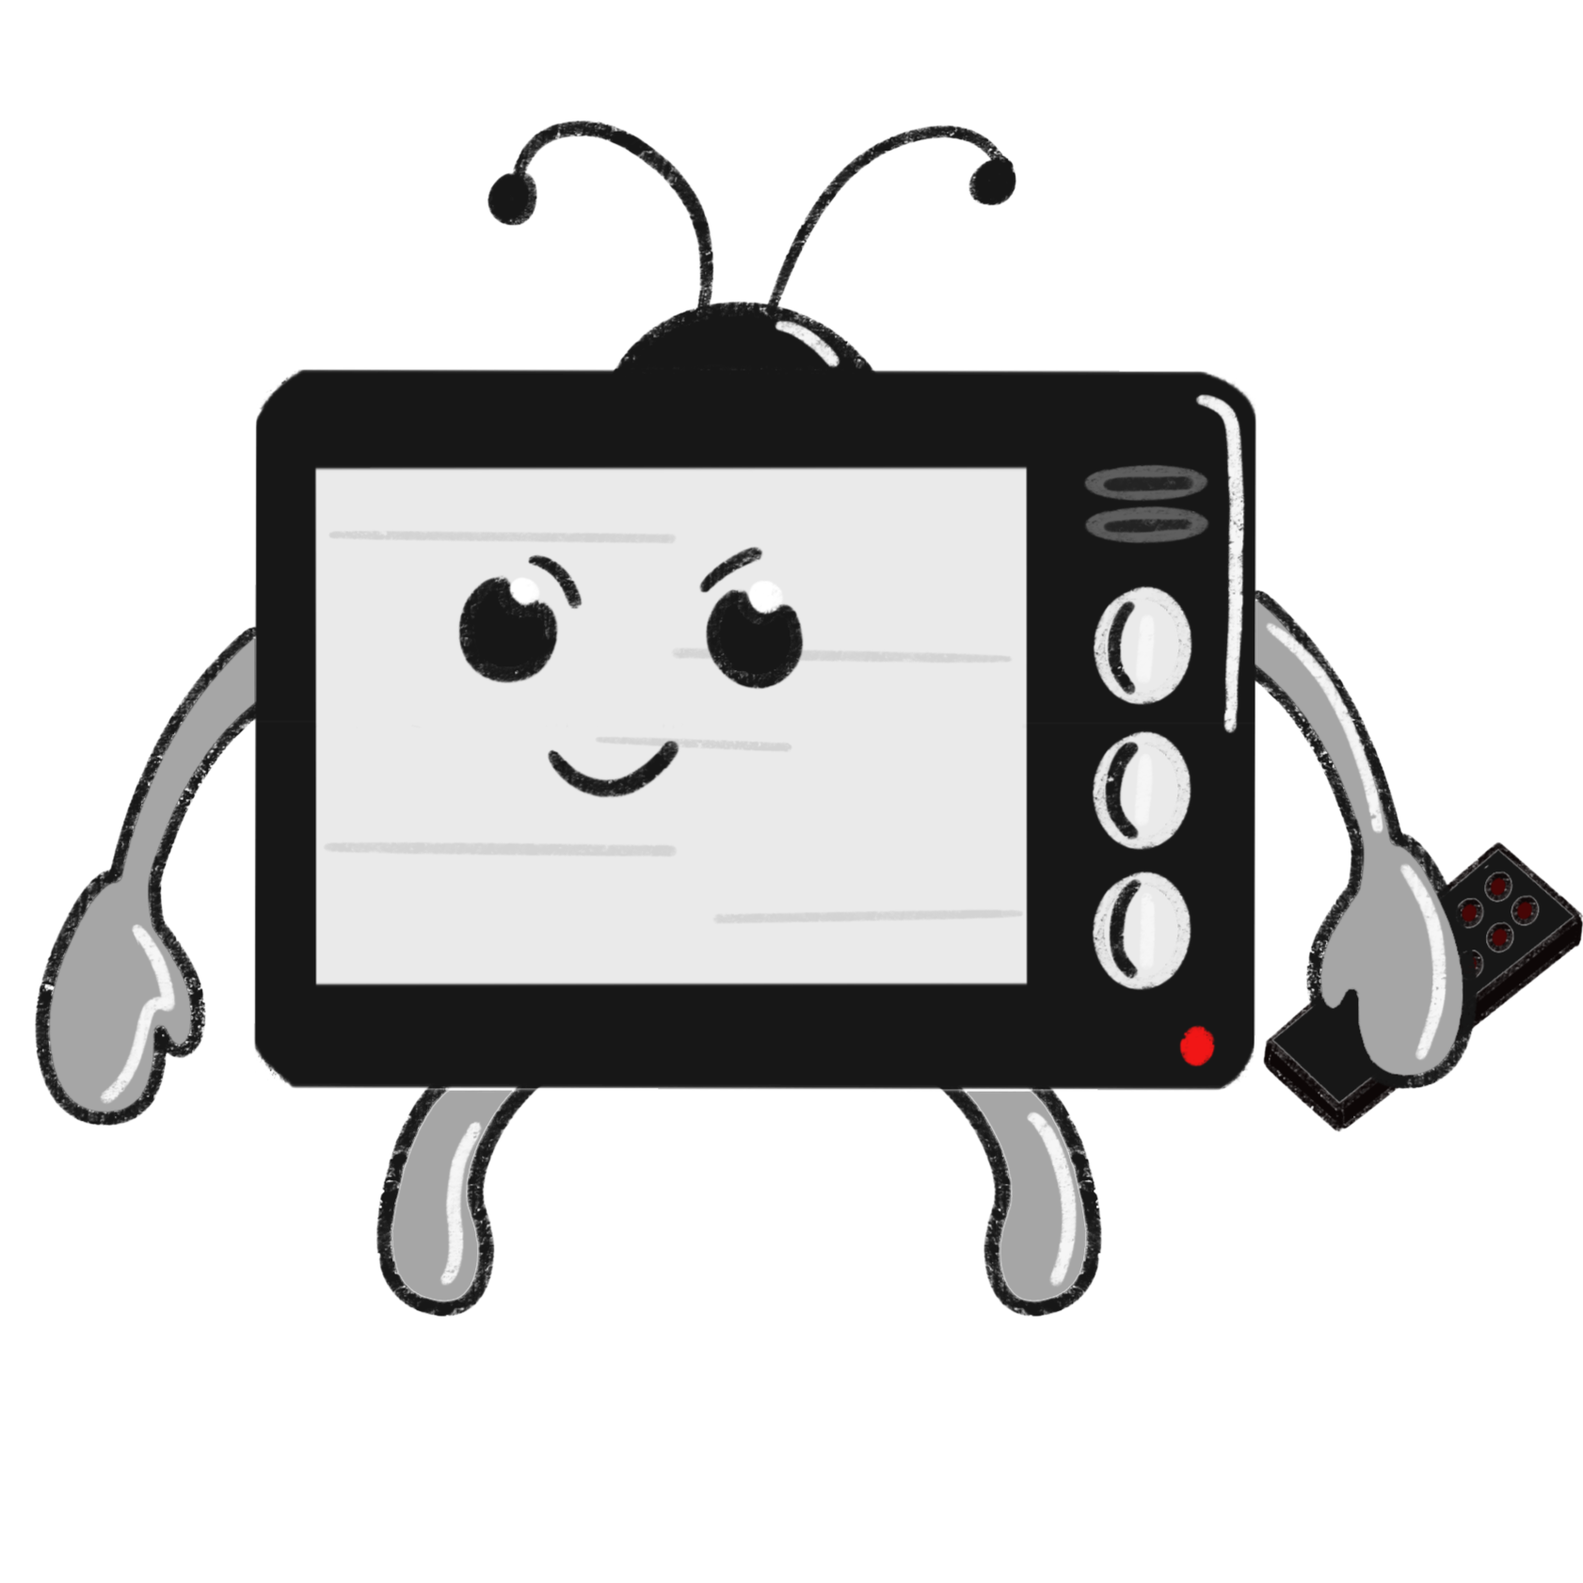
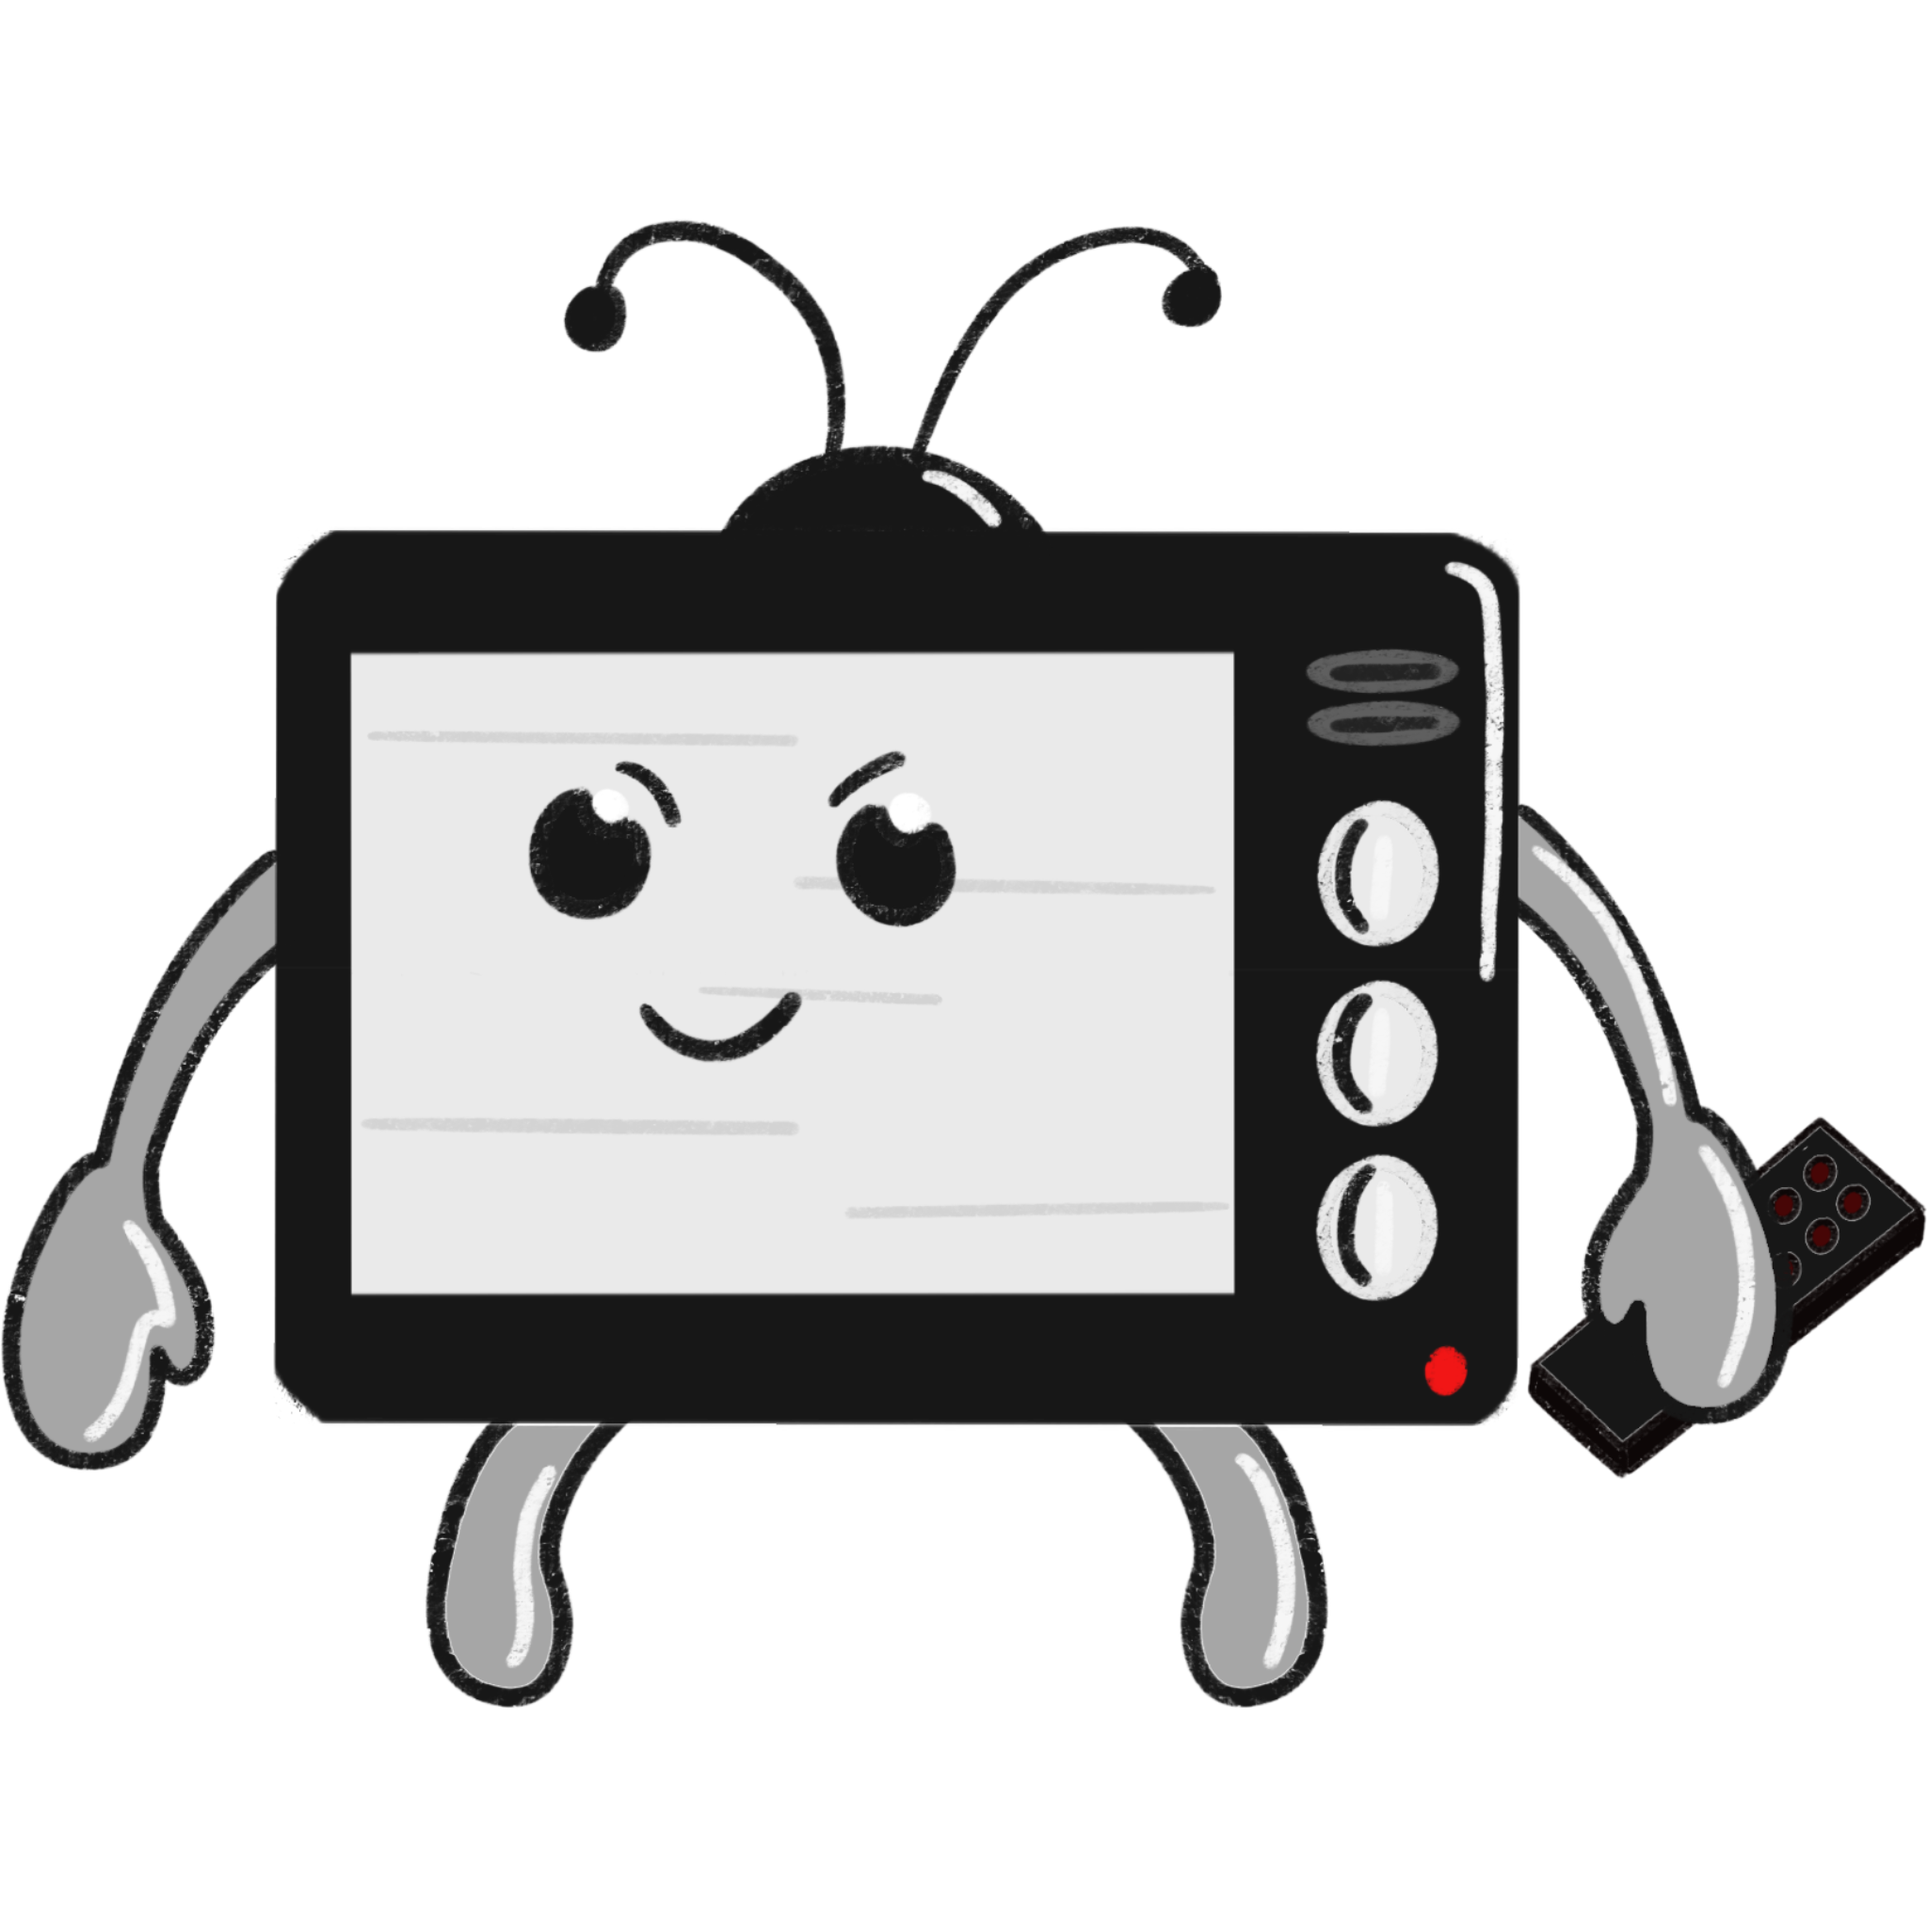
Add player deplacement animation

Changed region(s): [[0.0, 0.0618, 1.0, 0.8966], [0.2782, 0.0618, 0.4019, 0.1855]]

diff --git a/Player.cs b/Player.cs
@@ -1,5 +1,6 @@
 #nullable enable
 using System;
+using System.Collections;
 using System.Runtime.CompilerServices;
 using Microsoft.Xna.Framework;
 using Microsoft.Xna.Framework.Graphics;
@@ -14,6 +15,11 @@ public class Player : Entity
     private int xpObjective = 50;
     private int currentXp;
     private int maxHp;
+    
+    private int frameCounter = 0;
+    private double lastTimeFrame = 0;
+    private readonly double FRAME_INTERVAL = 100;
+    
     private Weapon weapon { get; set; }
 
     private float MAX_SPEED
@@ -27,7 +33,7 @@ public class Player : Entity
     public ProgressBar XpBar;
 
     public Player(Rectangle hitbox,
-        Sprite sprite,
+        ArrayList sprite,
         Vector2 pos,
         Vector2 speed,
         int hp,
@@ -125,13 +131,14 @@ public class Player : Entity
         if (Position.Y > World.WorldHeight - halfSpriteSize) Position.Y = World.WorldHeight - halfSpriteSize;
 
         //décélération avec le temps
-        if (Speed.X > 0) Speed.X -= 0.1f;
-        if (Speed.X < 0) Speed.X += 0.1f;
-        if (Speed.Y > 0) Speed.Y -= 0.1f;
-        if (Speed.Y < 0) Speed.Y += 0.1f;
+        if (Speed.X > 0) Speed.X -= 0.5f;
+        if (Speed.X < 0) Speed.X += 0.5f;
+        if (Speed.Y > 0) Speed.Y -= 0.5f;
+        if (Speed.Y < 0) Speed.Y += 0.5f;
 
         //réalignement de la hitbox sur le sprite
         setHitboxPosition();
+        GestionAnimation(gameTime);
 
         //Fin déplacement
 
@@ -143,6 +150,34 @@ public class Player : Entity
                 World.AddEntity(weapon.fire(time));
         }
         //Fin attaque
+    }
+
+    protected override void GestionAnimation(GameTime gameTime)
+    {
+        if (Math.Abs(Speed.X) < 0.1f && Math.Abs(Speed.Y) < 0.1f)
+        {
+            Sprite = (Sprite) spriteSheets[0];
+        }
+        else if (gameTime.TotalGameTime.TotalMilliseconds > lastTimeFrame + FRAME_INTERVAL)
+        {
+            lastTimeFrame = gameTime.TotalGameTime.TotalMilliseconds;
+            frameCounter = ((frameCounter + 1) % spriteSheets.Count);
+            bool flip = Sprite.Flipped;
+            Sprite = (Sprite) spriteSheets[frameCounter];
+            //On met à jour la position du Sprite car l'entité a possiblement bougé entre temps
+            Sprite._position = this.Position;
+            Sprite.Flipped = flip;
+            if (Speed.X > 0.1f)
+            {
+                Sprite.Flipped = true;
+            }
+            else
+            {
+                Sprite.Flipped = false;
+            }
+        }
+        
+        //TODO retourner sprite quand cours vers la gauche
     }
 
     private class Weapon

diff --git a/World.cs b/World.cs
@@ -8,27 +8,27 @@ namespace Projet_Survivor;
 
 public class World : Game
 {
+
+    private GraphicsDeviceManager _graphics;
+    private SpriteBatch _spriteBatch;
+
+    public static int WorldWidth;
+    public static int WorldHeight;
+
     //liste des entités présentes à un instant t
     //Le joueur est toujours l'entité à l'indice 0
     private static ArrayList _entities = new ArrayList();
     private static ArrayList _buttons = new ArrayList();
 
-    private GraphicsDeviceManager _graphics;
-
-    public static int WorldWidth;
-    public static int WorldHeight;
-    private SpriteBatch _spriteBatch;
-
-    public Sprite _playerSprite; // instance de Sprite
-    public Sprite _enemySprite; // instance de Sprite
     public static Texture2D xpBarBackground;
     public static Texture2D xpBarForeground;
     public static Texture2D defaultProjectileTexture;
 
     private ArrayList _enemyTextureList = new ArrayList();
+    private ArrayList _playerTextureList = new ArrayList();
 
-    private Texture2D backgroundTexture;
     public static Player player;
+    private Texture2D backgroundTexture;
     private Random random;
     private static bool isPaused;
 
@@ -113,7 +113,12 @@ public class World : Game
         _spriteBatch = new SpriteBatch(GraphicsDevice);
         Texture2D playerTexture = Content.Load<Texture2D>("playerStill");
         backgroundTexture = Content.Load<Texture2D>("background");
-        _playerSprite = new Sprite(playerTexture, new Vector2(150, 150), 100);
+        
+        _playerTextureList.Add(Content.Load<Texture2D>("playerStill"));
+        for (int i = 0; i < 2; i++)
+        {
+            _playerTextureList.Add(Content.Load<Texture2D>("playerMoving" + i.ToString()));
+        }
         
         for (int i = 0; i < 8; i++)
         {
@@ -146,7 +151,7 @@ public class World : Game
         attackSpeedUpgradeButton.addAction(() => player.increaseAttackSpeed());
         _buttons.Add(attackSpeedUpgradeButton);
 
-        player = new Player(new Rectangle(WorldWidth / 2, WorldHeight / 2, 60, 50), _playerSprite,
+        player = new Player(new Rectangle(WorldWidth / 2, WorldHeight / 2, 60, 50), constructSpriteSheet(_playerTextureList),
             new Vector2(WorldWidth / 2, WorldHeight / 2), new Vector2(),
             5, 1.0);
         _entities.Add(player);

diff --git a/Entity.cs b/Entity.cs
@@ -14,12 +14,9 @@ public abstract class Entity
     public Vector2 Position;
     protected int _hp;
     protected Vector2 Speed;
-    private ArrayList spriteSheets = new ArrayList(); 
+    protected ArrayList spriteSheets = new ArrayList(); 
     private double lastTimeHit = 0;
     private static readonly double HIT_COUNTDOWN = 10;
-    private int frameCounter = 0;
-    private double lastTimeFrame = 0;
-    private readonly double FRAME_INTERVAL = 250;
 
     public Entity(Rectangle hitbox, Sprite sprite, Vector2 position, Vector2 speed, int hp)
     {
@@ -58,27 +55,7 @@ public abstract class Entity
         }
     }
 
-    protected void GestionAnimation(GameTime gameTime)
-    {
-        if (this.Position.X > World.player.Position.X - 10)
-        {
-            Sprite.Flipped = true;
-        }
-        else
-        {
-            Sprite.Flipped = false;
-        }
-        if (gameTime.TotalGameTime.TotalMilliseconds > lastTimeFrame + FRAME_INTERVAL)
-        {
-            lastTimeFrame = gameTime.TotalGameTime.TotalMilliseconds;
-            frameCounter = (frameCounter + 1) % spriteSheets.Count;
-            bool flip = Sprite.Flipped;
-            Sprite = (Sprite) spriteSheets[frameCounter];
-            //On met à jour la position du Sprite car l'entité a possiblement bougé entre temps
-            Sprite._position = this.Position;
-            Sprite.Flipped = flip;
-        }
-    }
+    protected abstract void GestionAnimation(GameTime gameTime);
 
     private void SetHp(int hp)
     {

diff --git a/Enemy.cs b/Enemy.cs
@@ -12,6 +12,10 @@ public class Enemy : Entity
     private int xpValue { get; init; }
     private Behavior behavior;
     private readonly Player player = (Player)World.GetEntities()[0];
+    
+    private int frameCounter = 0;
+    private double lastTimeFrame = 0;
+    private readonly double FRAME_INTERVAL = 250;
 
     public Enemy(Rectangle hitbox,
         ArrayList sprite,
@@ -73,6 +77,29 @@ public class Enemy : Entity
         if (_hp <= 0)
         {
             player.gainXp(xpValue);
+            World.GetEntities().Remove(this);
+        }
+    }
+
+    protected override void GestionAnimation(GameTime gameTime)
+    {
+        if (this.Position.X > World.player.Position.X - 10)
+        {
+            Sprite.Flipped = true;
+        }
+        else
+        {
+            Sprite.Flipped = false;
+        }
+        if (gameTime.TotalGameTime.TotalMilliseconds > lastTimeFrame + FRAME_INTERVAL)
+        {
+            lastTimeFrame = gameTime.TotalGameTime.TotalMilliseconds;
+            frameCounter = (frameCounter + 1) % spriteSheets.Count;
+            bool flip = Sprite.Flipped;
+            Sprite = (Sprite) spriteSheets[frameCounter];
+            //On met à jour la position du Sprite car l'entité a possiblement bougé entre temps
+            Sprite._position = this.Position;
+            Sprite.Flipped = flip;
         }
     }
 }

diff --git a/Projectile.cs b/Projectile.cs
@@ -56,4 +56,9 @@ public class Projectile : Entity
             _hp <= 0)
             World.RemoveEntity(this);
     }
+
+    protected override void GestionAnimation(GameTime gameTime)
+    {
+        return;
+    }
 }
